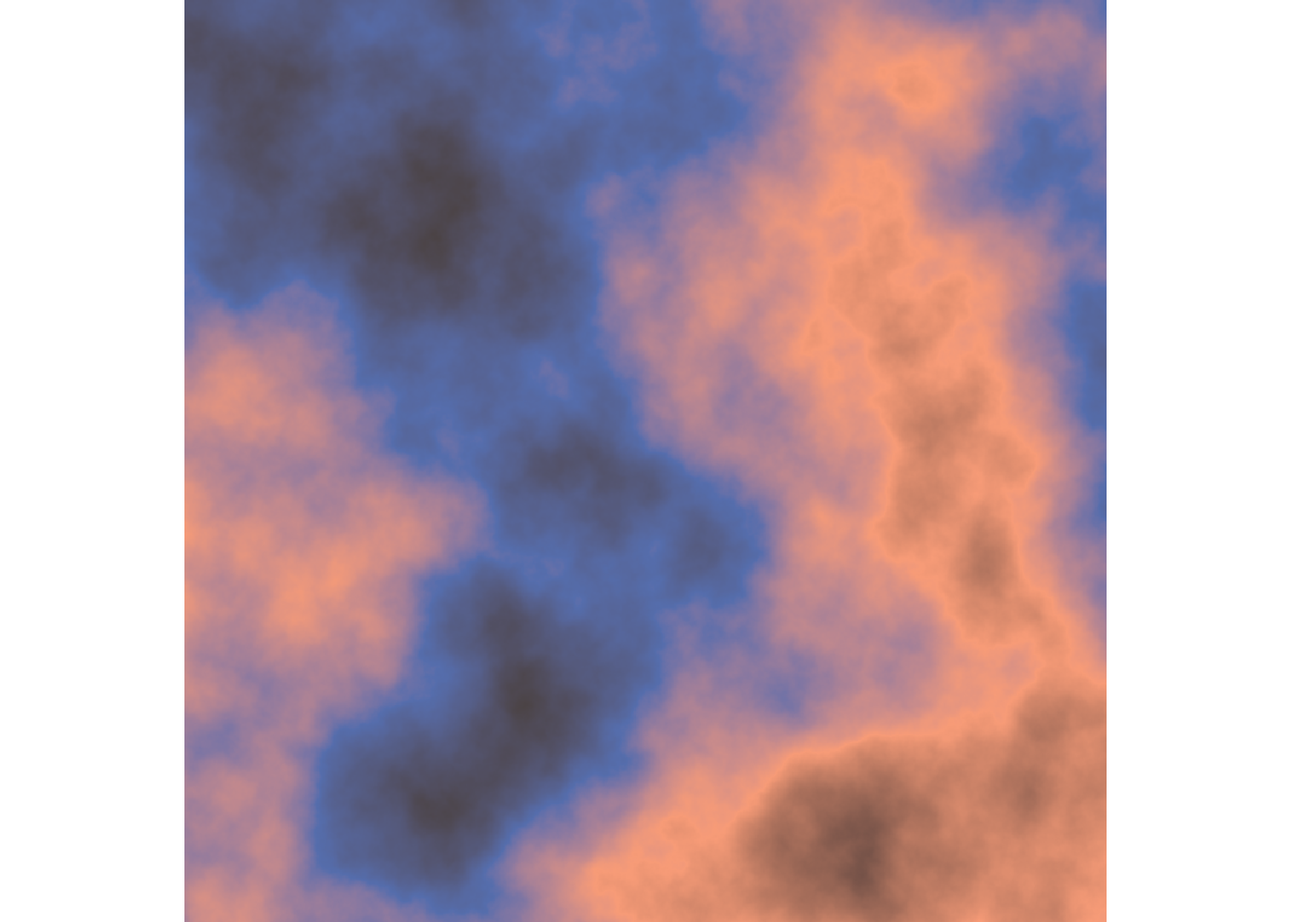
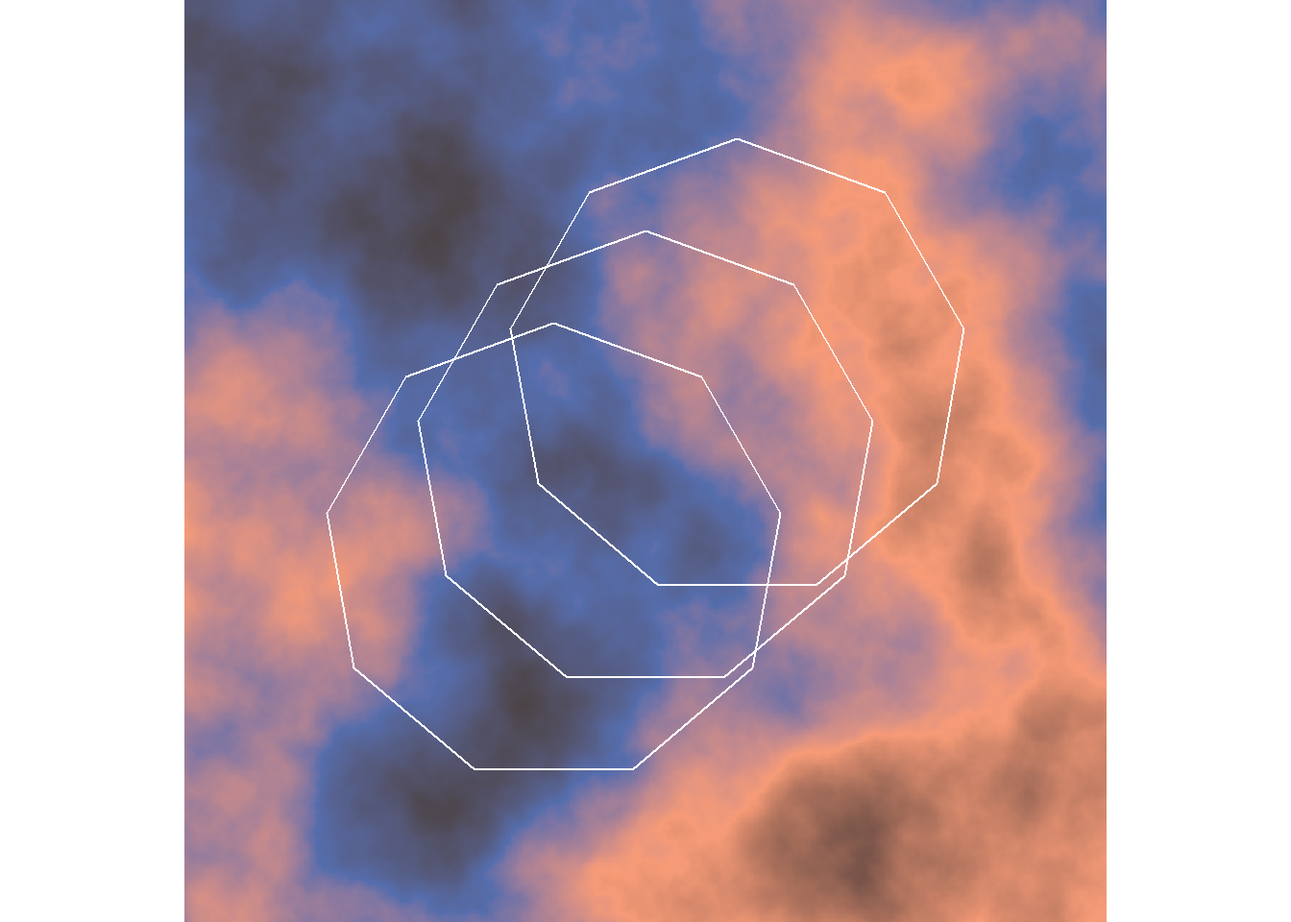
full gallery

diff --git a/Lab_9_Gallery.html b/Lab_9_Gallery.html
@@ -103,38 +103,42 @@ pre > code.sourceCode > span > a:first-child::before { text-decoration: underlin
 </header>
 
 
-<section id="art-piece-1" class="level2">
-<h2 class="anchored" data-anchor-id="art-piece-1">Art Piece 1</h2>
+<section id="gallery-entry-1" class="level1">
+<h1>Gallery Entry #1</h1>
 <div class="cell">
 <div class="sourceCode cell-code" id="cb1"><pre class="sourceCode r code-with-copy"><code class="sourceCode r"><span id="cb1-1"><a href="#cb1-1" aria-hidden="true" tabindex="-1"></a><span class="co">#using a phytoplankton monitoring time series from Morro Bay</span></span>
-<span id="cb1-2"><a href="#cb1-2" aria-hidden="true" tabindex="-1"></a>hab <span class="ot">&lt;-</span> <span class="fu">read.csv</span>(<span class="st">"data/MBF_upload.csv"</span>)</span>
-<span id="cb1-3"><a href="#cb1-3" aria-hidden="true" tabindex="-1"></a></span>
-<span id="cb1-4"><a href="#cb1-4" aria-hidden="true" tabindex="-1"></a><span class="co">#modifying and overlaying data on a single plot</span></span>
-<span id="cb1-5"><a href="#cb1-5" aria-hidden="true" tabindex="-1"></a>hab <span class="sc">|&gt;</span></span>
-<span id="cb1-6"><a href="#cb1-6" aria-hidden="true" tabindex="-1"></a>  <span class="fu">ggplot</span>() <span class="sc">+</span></span>
-<span id="cb1-7"><a href="#cb1-7" aria-hidden="true" tabindex="-1"></a>  <span class="fu">geom_point</span>(<span class="fu">aes</span>(Day.of.Year..<span class="dv">1</span>.<span class="fl">365.</span>, </span>
-<span id="cb1-8"><a href="#cb1-8" aria-hidden="true" tabindex="-1"></a>             <span class="fu">log10</span>(Total.Phytoplankton..cells.L.), </span>
-<span id="cb1-9"><a href="#cb1-9" aria-hidden="true" tabindex="-1"></a>             <span class="at">colour =</span> Day.of.Year..<span class="dv">1</span>.<span class="fl">365.</span>, </span>
-<span id="cb1-10"><a href="#cb1-10" aria-hidden="true" tabindex="-1"></a>             <span class="at">size =</span> Avg.Chloro..mg.m3.<span class="sc">/</span><span class="dv">2</span>),</span>
-<span id="cb1-11"><a href="#cb1-11" aria-hidden="true" tabindex="-1"></a>             <span class="at">show.legend =</span> <span class="cn">FALSE</span>) <span class="sc">+</span></span>
-<span id="cb1-12"><a href="#cb1-12" aria-hidden="true" tabindex="-1"></a>  <span class="fu">geom_point</span>(<span class="fu">aes</span>(<span class="fu">abs</span>(<span class="dv">366</span><span class="sc">-</span>Day.of.Year..<span class="dv">1</span>.<span class="fl">365.</span>), </span>
-<span id="cb1-13"><a href="#cb1-13" aria-hidden="true" tabindex="-1"></a>             <span class="fu">log</span>(Total.Phytoplankton..cells.L.), </span>
-<span id="cb1-14"><a href="#cb1-14" aria-hidden="true" tabindex="-1"></a>             <span class="at">colour =</span> Day.of.Year..<span class="dv">1</span>.<span class="fl">365.</span>, </span>
-<span id="cb1-15"><a href="#cb1-15" aria-hidden="true" tabindex="-1"></a>             <span class="at">size =</span> Avg.Chloro..mg.m3.),</span>
-<span id="cb1-16"><a href="#cb1-16" aria-hidden="true" tabindex="-1"></a>             <span class="at">show.legend =</span> <span class="cn">FALSE</span>) <span class="sc">+</span></span>
-<span id="cb1-17"><a href="#cb1-17" aria-hidden="true" tabindex="-1"></a>  <span class="fu">geom_bar</span>(<span class="fu">aes</span>(Day.of.Year..<span class="dv">1</span>.<span class="fl">365.</span>, </span>
-<span id="cb1-18"><a href="#cb1-18" aria-hidden="true" tabindex="-1"></a>              <span class="fu">log10</span>(Akashiwo.sanguinea..cells.L.), </span>
-<span id="cb1-19"><a href="#cb1-19" aria-hidden="true" tabindex="-1"></a>              <span class="at">colour  =</span> Temp..deg.C.<span class="sc">*</span><span class="dv">20</span>),</span>
-<span id="cb1-20"><a href="#cb1-20" aria-hidden="true" tabindex="-1"></a>           <span class="at">stat =</span> <span class="st">"identity"</span>, </span>
-<span id="cb1-21"><a href="#cb1-21" aria-hidden="true" tabindex="-1"></a>           <span class="at">show.legend =</span> <span class="cn">FALSE</span>) <span class="sc">+</span></span>
-<span id="cb1-22"><a href="#cb1-22" aria-hidden="true" tabindex="-1"></a>  <span class="fu">geom_bar</span>(<span class="fu">aes</span>(Day.of.Year..<span class="dv">1</span>.<span class="fl">365.</span>, </span>
-<span id="cb1-23"><a href="#cb1-23" aria-hidden="true" tabindex="-1"></a>              <span class="fu">log10</span>(Pseudo.nitzschia.seriata.group..cells.L.), </span>
-<span id="cb1-24"><a href="#cb1-24" aria-hidden="true" tabindex="-1"></a>              <span class="at">colour  =</span> Temp..deg.C.<span class="sc">*</span><span class="dv">10</span>),</span>
-<span id="cb1-25"><a href="#cb1-25" aria-hidden="true" tabindex="-1"></a>           <span class="at">stat =</span> <span class="st">"identity"</span>, </span>
-<span id="cb1-26"><a href="#cb1-26" aria-hidden="true" tabindex="-1"></a>           <span class="at">show.legend =</span> <span class="cn">FALSE</span>) <span class="sc">+</span></span>
-<span id="cb1-27"><a href="#cb1-27" aria-hidden="true" tabindex="-1"></a>  <span class="fu">coord_polar</span>() <span class="sc">+</span> </span>
-<span id="cb1-28"><a href="#cb1-28" aria-hidden="true" tabindex="-1"></a>  <span class="fu">theme_void</span>() <span class="sc">+</span></span>
-<span id="cb1-29"><a href="#cb1-29" aria-hidden="true" tabindex="-1"></a>  <span class="fu">scale_color_viridis_c</span>()</span></code><button title="Copy to Clipboard" class="code-copy-button"><i class="bi"></i></button></pre></div>
+<span id="cb1-2"><a href="#cb1-2" aria-hidden="true" tabindex="-1"></a></span>
+<span id="cb1-3"><a href="#cb1-3" aria-hidden="true" tabindex="-1"></a>hab <span class="ot">&lt;-</span> <span class="fu">read.csv</span>(<span class="st">"data/MBF_upload.csv"</span>)</span>
+<span id="cb1-4"><a href="#cb1-4" aria-hidden="true" tabindex="-1"></a></span>
+<span id="cb1-5"><a href="#cb1-5" aria-hidden="true" tabindex="-1"></a><span class="co">#modifying and overlaying data on a single plot</span></span>
+<span id="cb1-6"><a href="#cb1-6" aria-hidden="true" tabindex="-1"></a></span>
+<span id="cb1-7"><a href="#cb1-7" aria-hidden="true" tabindex="-1"></a>hab_spiral <span class="ot">&lt;-</span> hab <span class="sc">|&gt;</span></span>
+<span id="cb1-8"><a href="#cb1-8" aria-hidden="true" tabindex="-1"></a>  <span class="fu">ggplot</span>() <span class="sc">+</span></span>
+<span id="cb1-9"><a href="#cb1-9" aria-hidden="true" tabindex="-1"></a>  <span class="fu">geom_point</span>(<span class="fu">aes</span>(Day.of.Year..<span class="dv">1</span>.<span class="fl">365.</span>, </span>
+<span id="cb1-10"><a href="#cb1-10" aria-hidden="true" tabindex="-1"></a>             <span class="fu">log10</span>(Total.Phytoplankton..cells.L.), </span>
+<span id="cb1-11"><a href="#cb1-11" aria-hidden="true" tabindex="-1"></a>             <span class="at">colour =</span> Day.of.Year..<span class="dv">1</span>.<span class="fl">365.</span>, </span>
+<span id="cb1-12"><a href="#cb1-12" aria-hidden="true" tabindex="-1"></a>             <span class="at">size =</span> Avg.Chloro..mg.m3.<span class="sc">/</span><span class="dv">2</span>),</span>
+<span id="cb1-13"><a href="#cb1-13" aria-hidden="true" tabindex="-1"></a>             <span class="at">show.legend =</span> <span class="cn">FALSE</span>) <span class="sc">+</span></span>
+<span id="cb1-14"><a href="#cb1-14" aria-hidden="true" tabindex="-1"></a>  <span class="fu">geom_point</span>(<span class="fu">aes</span>(<span class="fu">abs</span>(<span class="dv">366</span><span class="sc">-</span>Day.of.Year..<span class="dv">1</span>.<span class="fl">365.</span>), </span>
+<span id="cb1-15"><a href="#cb1-15" aria-hidden="true" tabindex="-1"></a>             <span class="fu">log</span>(Total.Phytoplankton..cells.L.), </span>
+<span id="cb1-16"><a href="#cb1-16" aria-hidden="true" tabindex="-1"></a>             <span class="at">colour =</span> Day.of.Year..<span class="dv">1</span>.<span class="fl">365.</span>, </span>
+<span id="cb1-17"><a href="#cb1-17" aria-hidden="true" tabindex="-1"></a>             <span class="at">size =</span> Avg.Chloro..mg.m3.),</span>
+<span id="cb1-18"><a href="#cb1-18" aria-hidden="true" tabindex="-1"></a>             <span class="at">show.legend =</span> <span class="cn">FALSE</span>) <span class="sc">+</span></span>
+<span id="cb1-19"><a href="#cb1-19" aria-hidden="true" tabindex="-1"></a>  <span class="fu">geom_bar</span>(<span class="fu">aes</span>(Day.of.Year..<span class="dv">1</span>.<span class="fl">365.</span>, </span>
+<span id="cb1-20"><a href="#cb1-20" aria-hidden="true" tabindex="-1"></a>              <span class="fu">log10</span>(Akashiwo.sanguinea..cells.L.), </span>
+<span id="cb1-21"><a href="#cb1-21" aria-hidden="true" tabindex="-1"></a>              <span class="at">colour  =</span> Temp..deg.C.<span class="sc">*</span><span class="dv">20</span>),</span>
+<span id="cb1-22"><a href="#cb1-22" aria-hidden="true" tabindex="-1"></a>           <span class="at">stat =</span> <span class="st">"identity"</span>, </span>
+<span id="cb1-23"><a href="#cb1-23" aria-hidden="true" tabindex="-1"></a>           <span class="at">show.legend =</span> <span class="cn">FALSE</span>) <span class="sc">+</span></span>
+<span id="cb1-24"><a href="#cb1-24" aria-hidden="true" tabindex="-1"></a>  <span class="fu">geom_bar</span>(<span class="fu">aes</span>(Day.of.Year..<span class="dv">1</span>.<span class="fl">365.</span>, </span>
+<span id="cb1-25"><a href="#cb1-25" aria-hidden="true" tabindex="-1"></a>              <span class="fu">log10</span>(Pseudo.nitzschia.seriata.group..cells.L.), </span>
+<span id="cb1-26"><a href="#cb1-26" aria-hidden="true" tabindex="-1"></a>              <span class="at">colour  =</span> Temp..deg.C.<span class="sc">*</span><span class="dv">10</span>),</span>
+<span id="cb1-27"><a href="#cb1-27" aria-hidden="true" tabindex="-1"></a>           <span class="at">stat =</span> <span class="st">"identity"</span>, </span>
+<span id="cb1-28"><a href="#cb1-28" aria-hidden="true" tabindex="-1"></a>           <span class="at">show.legend =</span> <span class="cn">FALSE</span>) <span class="sc">+</span></span>
+<span id="cb1-29"><a href="#cb1-29" aria-hidden="true" tabindex="-1"></a>  <span class="fu">coord_polar</span>() <span class="sc">+</span> </span>
+<span id="cb1-30"><a href="#cb1-30" aria-hidden="true" tabindex="-1"></a>  <span class="fu">theme_void</span>() <span class="sc">+</span></span>
+<span id="cb1-31"><a href="#cb1-31" aria-hidden="true" tabindex="-1"></a>  <span class="fu">scale_color_viridis_c</span>()</span>
+<span id="cb1-32"><a href="#cb1-32" aria-hidden="true" tabindex="-1"></a></span>
+<span id="cb1-33"><a href="#cb1-33" aria-hidden="true" tabindex="-1"></a>hab_spiral</span></code><button title="Copy to Clipboard" class="code-copy-button"><i class="bi"></i></button></pre></div>
 <div class="cell-output-display">
 <div>
 <figure class="figure">
@@ -143,40 +147,85 @@ pre > code.sourceCode > span > a:first-child::before { text-decoration: underlin
 </div>
 </div>
 </div>
+<section id="title-galaxsea" class="level2">
+<h2 class="anchored" data-anchor-id="title-galaxsea">Title: GalaxSea</h2>
+<section id="dramatic-description" class="level3">
+<h3 class="anchored" data-anchor-id="dramatic-description">Dramatic Description</h3>
+<p>When viewed under a microscope, the phytoplankton that inhabit the ocean can appear as numerous as the stars in the sky. This piece uses a plankton monitoring time series as the underlying dataset, from which transformations, aesthetic manipulations, and layering result in a swirling assortment of points and rays akin to a solar system. This piece evokes the continuum between microscopic and macroscopic, the inherent link between the smallest and largest scales accessible to human observation.</p>
 </section>
-<section id="art-piece-2" class="level2">
-<h2 class="anchored" data-anchor-id="art-piece-2">Art Piece 2</h2>
+<section id="code-choices" class="level3">
+<h3 class="anchored" data-anchor-id="code-choices">Code Choices</h3>
+<p>Using <code>coord_polar()</code> changes the structure of the x-axis so all the data spirals around a central point. Multiple data transformations (such as log scaling) are used in the layered <code>geom_bar()</code> and <code>geom_point()</code> calls to space out the data so it has a characteristic cosmic feel, like asteroid belts encircling the sun.</p>
+</section>
+</section>
+</section>
+<section id="gallery-entry-2" class="level1">
+<h1>Gallery Entry #2</h1>
 <div class="cell">
 <div class="sourceCode cell-code" id="cb2"><pre class="sourceCode r code-with-copy"><code class="sourceCode r"><span id="cb2-1"><a href="#cb2-1" aria-hidden="true" tabindex="-1"></a><span class="co">#generate color palettes</span></span>
-<span id="cb2-2"><a href="#cb2-2" aria-hidden="true" tabindex="-1"></a>sample_canva <span class="ot">&lt;-</span> <span class="cf">function</span>(<span class="at">seed =</span> <span class="cn">NULL</span>) {</span>
-<span id="cb2-3"><a href="#cb2-3" aria-hidden="true" tabindex="-1"></a>  <span class="cf">if</span>(<span class="sc">!</span><span class="fu">is.null</span>(seed)) <span class="fu">set.seed</span>(seed)</span>
-<span id="cb2-4"><a href="#cb2-4" aria-hidden="true" tabindex="-1"></a>  <span class="fu">sample</span>(ggthemes<span class="sc">::</span>canva_palettes, <span class="dv">1</span>)[[<span class="dv">1</span>]]</span>
-<span id="cb2-5"><a href="#cb2-5" aria-hidden="true" tabindex="-1"></a>}</span>
-<span id="cb2-6"><a href="#cb2-6" aria-hidden="true" tabindex="-1"></a></span>
-<span id="cb2-7"><a href="#cb2-7" aria-hidden="true" tabindex="-1"></a><span class="co">#create a canvas</span></span>
-<span id="cb2-8"><a href="#cb2-8" aria-hidden="true" tabindex="-1"></a>x_coords <span class="ot">&lt;-</span> <span class="fu">seq</span>(<span class="at">from =</span> <span class="dv">0</span>, <span class="at">to =</span> <span class="dv">1</span>, <span class="at">length.out =</span> <span class="dv">800</span>)</span>
-<span id="cb2-9"><a href="#cb2-9" aria-hidden="true" tabindex="-1"></a>y_coords <span class="ot">&lt;-</span> <span class="fu">seq</span>(<span class="at">from =</span> <span class="dv">0</span>, <span class="at">to =</span> <span class="dv">1</span>, <span class="at">length.out =</span> <span class="dv">800</span>)</span>
-<span id="cb2-10"><a href="#cb2-10" aria-hidden="true" tabindex="-1"></a>canvas <span class="ot">&lt;-</span> <span class="fu">long_grid</span>(<span class="at">x =</span> x_coords, <span class="at">y =</span> y_coords) </span>
-<span id="cb2-11"><a href="#cb2-11" aria-hidden="true" tabindex="-1"></a></span>
-<span id="cb2-12"><a href="#cb2-12" aria-hidden="true" tabindex="-1"></a><span class="co">#add some generated "paint" to the canvas</span></span>
-<span id="cb2-13"><a href="#cb2-13" aria-hidden="true" tabindex="-1"></a>canvas <span class="ot">&lt;-</span> canvas <span class="sc">|&gt;</span></span>
-<span id="cb2-14"><a href="#cb2-14" aria-hidden="true" tabindex="-1"></a>  <span class="fu">mutate</span>(<span class="at">paint =</span> <span class="fu">fracture</span>(</span>
-<span id="cb2-15"><a href="#cb2-15" aria-hidden="true" tabindex="-1"></a>            <span class="at">noise =</span> gen_simplex,</span>
-<span id="cb2-16"><a href="#cb2-16" aria-hidden="true" tabindex="-1"></a>            <span class="at">x =</span> x,</span>
-<span id="cb2-17"><a href="#cb2-17" aria-hidden="true" tabindex="-1"></a>            <span class="at">y =</span> y,</span>
-<span id="cb2-18"><a href="#cb2-18" aria-hidden="true" tabindex="-1"></a>            <span class="at">octaves =</span> <span class="dv">20</span>,</span>
-<span id="cb2-19"><a href="#cb2-19" aria-hidden="true" tabindex="-1"></a>            <span class="at">fractal =</span> fbm,</span>
-<span id="cb2-20"><a href="#cb2-20" aria-hidden="true" tabindex="-1"></a>            <span class="at">seed =</span> <span class="dv">29</span>))</span>
-<span id="cb2-21"><a href="#cb2-21" aria-hidden="true" tabindex="-1"></a></span>
-<span id="cb2-22"><a href="#cb2-22" aria-hidden="true" tabindex="-1"></a><span class="co">#putting it all together with a generated color palette</span></span>
-<span id="cb2-23"><a href="#cb2-23" aria-hidden="true" tabindex="-1"></a>art <span class="ot">&lt;-</span> <span class="fu">ggplot</span>(canvas, <span class="fu">aes</span>(x, y, <span class="at">fill =</span> paint)) <span class="sc">+</span> </span>
-<span id="cb2-24"><a href="#cb2-24" aria-hidden="true" tabindex="-1"></a>  <span class="fu">geom_raster</span>(<span class="at">show.legend =</span> <span class="cn">FALSE</span>) <span class="sc">+</span></span>
-<span id="cb2-25"><a href="#cb2-25" aria-hidden="true" tabindex="-1"></a>  <span class="fu">theme_void</span>() <span class="sc">+</span></span>
-<span id="cb2-26"><a href="#cb2-26" aria-hidden="true" tabindex="-1"></a>  <span class="fu">coord_equal</span>() <span class="sc">+</span></span>
-<span id="cb2-27"><a href="#cb2-27" aria-hidden="true" tabindex="-1"></a>  <span class="fu">scale_x_continuous</span>(<span class="at">expand =</span> <span class="fu">c</span>(<span class="dv">0</span>, <span class="dv">0</span>)) <span class="sc">+</span></span>
-<span id="cb2-28"><a href="#cb2-28" aria-hidden="true" tabindex="-1"></a>  <span class="fu">scale_y_continuous</span>(<span class="at">expand =</span> <span class="fu">c</span>(<span class="dv">0</span>, <span class="dv">0</span>)) <span class="sc">+</span></span>
-<span id="cb2-29"><a href="#cb2-29" aria-hidden="true" tabindex="-1"></a>  <span class="fu">scale_fill_gradientn</span>(<span class="at">colours =</span> <span class="fu">sample_canva</span>(<span class="at">seed =</span> <span class="dv">42</span>))</span>
-<span id="cb2-30"><a href="#cb2-30" aria-hidden="true" tabindex="-1"></a>art</span></code><button title="Copy to Clipboard" class="code-copy-button"><i class="bi"></i></button></pre></div>
+<span id="cb2-2"><a href="#cb2-2" aria-hidden="true" tabindex="-1"></a></span>
+<span id="cb2-3"><a href="#cb2-3" aria-hidden="true" tabindex="-1"></a>sample_canva <span class="ot">&lt;-</span> <span class="cf">function</span>(<span class="at">seed =</span> <span class="cn">NULL</span>) {</span>
+<span id="cb2-4"><a href="#cb2-4" aria-hidden="true" tabindex="-1"></a>  <span class="cf">if</span>(<span class="sc">!</span><span class="fu">is.null</span>(seed)) <span class="fu">set.seed</span>(seed)</span>
+<span id="cb2-5"><a href="#cb2-5" aria-hidden="true" tabindex="-1"></a>  <span class="fu">sample</span>(ggthemes<span class="sc">::</span>canva_palettes, <span class="dv">1</span>)[[<span class="dv">1</span>]]</span>
+<span id="cb2-6"><a href="#cb2-6" aria-hidden="true" tabindex="-1"></a>}</span>
+<span id="cb2-7"><a href="#cb2-7" aria-hidden="true" tabindex="-1"></a></span>
+<span id="cb2-8"><a href="#cb2-8" aria-hidden="true" tabindex="-1"></a><span class="co">#create a canvas</span></span>
+<span id="cb2-9"><a href="#cb2-9" aria-hidden="true" tabindex="-1"></a></span>
+<span id="cb2-10"><a href="#cb2-10" aria-hidden="true" tabindex="-1"></a>x_coords <span class="ot">&lt;-</span> <span class="fu">seq</span>(<span class="at">from =</span> <span class="dv">0</span>, <span class="at">to =</span> <span class="dv">1</span>, <span class="at">length.out =</span> <span class="dv">800</span>)</span>
+<span id="cb2-11"><a href="#cb2-11" aria-hidden="true" tabindex="-1"></a>y_coords <span class="ot">&lt;-</span> <span class="fu">seq</span>(<span class="at">from =</span> <span class="dv">0</span>, <span class="at">to =</span> <span class="dv">1</span>, <span class="at">length.out =</span> <span class="dv">800</span>)</span>
+<span id="cb2-12"><a href="#cb2-12" aria-hidden="true" tabindex="-1"></a>canvas <span class="ot">&lt;-</span> <span class="fu">long_grid</span>(<span class="at">x =</span> x_coords, <span class="at">y =</span> y_coords) </span>
+<span id="cb2-13"><a href="#cb2-13" aria-hidden="true" tabindex="-1"></a></span>
+<span id="cb2-14"><a href="#cb2-14" aria-hidden="true" tabindex="-1"></a><span class="co">#add some generated "paint" to the canvas</span></span>
+<span id="cb2-15"><a href="#cb2-15" aria-hidden="true" tabindex="-1"></a></span>
+<span id="cb2-16"><a href="#cb2-16" aria-hidden="true" tabindex="-1"></a>canvas <span class="ot">&lt;-</span> canvas <span class="sc">|&gt;</span></span>
+<span id="cb2-17"><a href="#cb2-17" aria-hidden="true" tabindex="-1"></a>  <span class="fu">mutate</span>(<span class="at">paint =</span> <span class="fu">fracture</span>(</span>
+<span id="cb2-18"><a href="#cb2-18" aria-hidden="true" tabindex="-1"></a>            <span class="at">noise =</span> gen_simplex,</span>
+<span id="cb2-19"><a href="#cb2-19" aria-hidden="true" tabindex="-1"></a>            <span class="at">x =</span> x,</span>
+<span id="cb2-20"><a href="#cb2-20" aria-hidden="true" tabindex="-1"></a>            <span class="at">y =</span> y,</span>
+<span id="cb2-21"><a href="#cb2-21" aria-hidden="true" tabindex="-1"></a>            <span class="at">octaves =</span> <span class="dv">20</span>,</span>
+<span id="cb2-22"><a href="#cb2-22" aria-hidden="true" tabindex="-1"></a>            <span class="at">fractal =</span> fbm,</span>
+<span id="cb2-23"><a href="#cb2-23" aria-hidden="true" tabindex="-1"></a>            <span class="at">seed =</span> <span class="dv">29</span>))</span>
+<span id="cb2-24"><a href="#cb2-24" aria-hidden="true" tabindex="-1"></a></span>
+<span id="cb2-25"><a href="#cb2-25" aria-hidden="true" tabindex="-1"></a><span class="co">#defining the shape of a nonagon to add some structure/geometry to the fractal chaos</span></span>
+<span id="cb2-26"><a href="#cb2-26" aria-hidden="true" tabindex="-1"></a></span>
+<span id="cb2-27"><a href="#cb2-27" aria-hidden="true" tabindex="-1"></a>theta <span class="ot">&lt;-</span> (<span class="dv">0</span><span class="sc">:</span><span class="dv">9</span>) <span class="sc">*</span> pi <span class="sc">/</span> <span class="fl">4.5</span></span>
+<span id="cb2-28"><a href="#cb2-28" aria-hidden="true" tabindex="-1"></a>nonagon <span class="ot">&lt;-</span> <span class="fu">tibble</span>(</span>
+<span id="cb2-29"><a href="#cb2-29" aria-hidden="true" tabindex="-1"></a>  <span class="at">x =</span> <span class="fu">sin</span>(theta),</span>
+<span id="cb2-30"><a href="#cb2-30" aria-hidden="true" tabindex="-1"></a>  <span class="at">y =</span> <span class="fu">cos</span>(theta)</span>
+<span id="cb2-31"><a href="#cb2-31" aria-hidden="true" tabindex="-1"></a>)</span>
+<span id="cb2-32"><a href="#cb2-32" aria-hidden="true" tabindex="-1"></a></span>
+<span id="cb2-33"><a href="#cb2-33" aria-hidden="true" tabindex="-1"></a>nonagon_scale <span class="ot">&lt;-</span> nonagon <span class="sc">|&gt;</span></span>
+<span id="cb2-34"><a href="#cb2-34" aria-hidden="true" tabindex="-1"></a>  <span class="fu">mutate</span>(<span class="at">x_scale =</span> x<span class="sc">/</span><span class="dv">4</span><span class="fl">+0.5</span>, </span>
+<span id="cb2-35"><a href="#cb2-35" aria-hidden="true" tabindex="-1"></a>         <span class="at">y_scale =</span> y<span class="sc">/</span><span class="dv">4</span><span class="fl">+0.5</span>)</span>
+<span id="cb2-36"><a href="#cb2-36" aria-hidden="true" tabindex="-1"></a></span>
+<span id="cb2-37"><a href="#cb2-37" aria-hidden="true" tabindex="-1"></a><span class="co">#putting them all together</span></span>
+<span id="cb2-38"><a href="#cb2-38" aria-hidden="true" tabindex="-1"></a></span>
+<span id="cb2-39"><a href="#cb2-39" aria-hidden="true" tabindex="-1"></a>fractal_plot <span class="ot">&lt;-</span> <span class="fu">ggplot</span>() <span class="sc">+</span></span>
+<span id="cb2-40"><a href="#cb2-40" aria-hidden="true" tabindex="-1"></a>  <span class="fu">geom_raster</span>(<span class="at">data =</span> canvas, </span>
+<span id="cb2-41"><a href="#cb2-41" aria-hidden="true" tabindex="-1"></a>              <span class="fu">aes</span>(x, y, <span class="at">fill =</span> paint), </span>
+<span id="cb2-42"><a href="#cb2-42" aria-hidden="true" tabindex="-1"></a>              <span class="at">show.legend =</span> <span class="cn">FALSE</span>) <span class="sc">+</span></span>
+<span id="cb2-43"><a href="#cb2-43" aria-hidden="true" tabindex="-1"></a>  <span class="fu">scale_x_continuous</span>(<span class="at">expand =</span> <span class="fu">c</span>(<span class="dv">0</span>, <span class="dv">0</span>)) <span class="sc">+</span></span>
+<span id="cb2-44"><a href="#cb2-44" aria-hidden="true" tabindex="-1"></a>  <span class="fu">scale_y_continuous</span>(<span class="at">expand =</span> <span class="fu">c</span>(<span class="dv">0</span>, <span class="dv">0</span>)) <span class="sc">+</span></span>
+<span id="cb2-45"><a href="#cb2-45" aria-hidden="true" tabindex="-1"></a>  <span class="fu">scale_fill_gradientn</span>(<span class="at">colours =</span> <span class="fu">sample_canva</span>(<span class="at">seed =</span> <span class="dv">42</span>)) <span class="sc">+</span></span>
+<span id="cb2-46"><a href="#cb2-46" aria-hidden="true" tabindex="-1"></a>  <span class="fu">geom_polygon</span>(<span class="at">data =</span> nonagon_scale,</span>
+<span id="cb2-47"><a href="#cb2-47" aria-hidden="true" tabindex="-1"></a>               <span class="fu">aes</span>(x_scale, y_scale), </span>
+<span id="cb2-48"><a href="#cb2-48" aria-hidden="true" tabindex="-1"></a>               <span class="at">colour =</span> <span class="st">"white"</span>, </span>
+<span id="cb2-49"><a href="#cb2-49" aria-hidden="true" tabindex="-1"></a>               <span class="at">fill =</span> <span class="cn">NA</span>, </span>
+<span id="cb2-50"><a href="#cb2-50" aria-hidden="true" tabindex="-1"></a>               <span class="at">show.legend =</span> <span class="cn">FALSE</span>) <span class="sc">+</span></span>
+<span id="cb2-51"><a href="#cb2-51" aria-hidden="true" tabindex="-1"></a>  <span class="fu">geom_polygon</span>(<span class="at">data =</span> nonagon_scale,</span>
+<span id="cb2-52"><a href="#cb2-52" aria-hidden="true" tabindex="-1"></a>               <span class="fu">aes</span>(x_scale<span class="fl">-0.1</span>, y_scale<span class="fl">-0.1</span>), </span>
+<span id="cb2-53"><a href="#cb2-53" aria-hidden="true" tabindex="-1"></a>               <span class="at">colour =</span> <span class="st">"white"</span>, </span>
+<span id="cb2-54"><a href="#cb2-54" aria-hidden="true" tabindex="-1"></a>               <span class="at">fill =</span> <span class="cn">NA</span>, </span>
+<span id="cb2-55"><a href="#cb2-55" aria-hidden="true" tabindex="-1"></a>               <span class="at">show.legend =</span> <span class="cn">FALSE</span>) <span class="sc">+</span></span>
+<span id="cb2-56"><a href="#cb2-56" aria-hidden="true" tabindex="-1"></a>  <span class="fu">geom_polygon</span>(<span class="at">data =</span> nonagon_scale,</span>
+<span id="cb2-57"><a href="#cb2-57" aria-hidden="true" tabindex="-1"></a>               <span class="fu">aes</span>(x_scale<span class="fl">+0.1</span>, y_scale<span class="fl">+0.1</span>), </span>
+<span id="cb2-58"><a href="#cb2-58" aria-hidden="true" tabindex="-1"></a>               <span class="at">colour =</span> <span class="st">"white"</span>, </span>
+<span id="cb2-59"><a href="#cb2-59" aria-hidden="true" tabindex="-1"></a>               <span class="at">fill =</span> <span class="cn">NA</span>, </span>
+<span id="cb2-60"><a href="#cb2-60" aria-hidden="true" tabindex="-1"></a>               <span class="at">show.legend =</span> <span class="cn">FALSE</span>) <span class="sc">+</span></span>
+<span id="cb2-61"><a href="#cb2-61" aria-hidden="true" tabindex="-1"></a>  <span class="fu">coord_equal</span>() <span class="sc">+</span> </span>
+<span id="cb2-62"><a href="#cb2-62" aria-hidden="true" tabindex="-1"></a>  <span class="fu">theme_void</span>()</span>
+<span id="cb2-63"><a href="#cb2-63" aria-hidden="true" tabindex="-1"></a></span>
+<span id="cb2-64"><a href="#cb2-64" aria-hidden="true" tabindex="-1"></a>fractal_plot</span></code><button title="Copy to Clipboard" class="code-copy-button"><i class="bi"></i></button></pre></div>
 <div class="cell-output-display">
 <div>
 <figure class="figure">
@@ -184,73 +233,18 @@ pre > code.sourceCode > span > a:first-child::before { text-decoration: underlin
 </figure>
 </div>
 </div>
-<div class="sourceCode cell-code" id="cb3"><pre class="sourceCode r code-with-copy"><code class="sourceCode r"><span id="cb3-1"><a href="#cb3-1" aria-hidden="true" tabindex="-1"></a><span class="co">#defining the shape of a nonagon</span></span>
-<span id="cb3-2"><a href="#cb3-2" aria-hidden="true" tabindex="-1"></a>theta <span class="ot">&lt;-</span> (<span class="dv">0</span><span class="sc">:</span><span class="dv">9</span>) <span class="sc">*</span> pi <span class="sc">/</span> <span class="fl">4.5</span></span>
-<span id="cb3-3"><a href="#cb3-3" aria-hidden="true" tabindex="-1"></a>nonagon <span class="ot">&lt;-</span> <span class="fu">tibble</span>(</span>
-<span id="cb3-4"><a href="#cb3-4" aria-hidden="true" tabindex="-1"></a>  <span class="at">x =</span> <span class="fu">sin</span>(theta),</span>
-<span id="cb3-5"><a href="#cb3-5" aria-hidden="true" tabindex="-1"></a>  <span class="at">y =</span> <span class="fu">cos</span>(theta)</span>
-<span id="cb3-6"><a href="#cb3-6" aria-hidden="true" tabindex="-1"></a>)</span>
-<span id="cb3-7"><a href="#cb3-7" aria-hidden="true" tabindex="-1"></a>nonagon_scale <span class="ot">&lt;-</span> nonagon <span class="sc">%&gt;%</span></span>
-<span id="cb3-8"><a href="#cb3-8" aria-hidden="true" tabindex="-1"></a>  <span class="fu">mutate</span>(<span class="at">x_scale =</span> x<span class="sc">/</span><span class="dv">4</span>, </span>
-<span id="cb3-9"><a href="#cb3-9" aria-hidden="true" tabindex="-1"></a>         <span class="at">y_scale =</span> y<span class="sc">/</span><span class="dv">4</span>)</span>
-<span id="cb3-10"><a href="#cb3-10" aria-hidden="true" tabindex="-1"></a></span>
-<span id="cb3-11"><a href="#cb3-11" aria-hidden="true" tabindex="-1"></a><span class="co">#plotting nonagon</span></span>
-<span id="cb3-12"><a href="#cb3-12" aria-hidden="true" tabindex="-1"></a>pic <span class="ot">&lt;-</span> <span class="fu">ggplot</span>(nonagon) <span class="sc">+</span></span>
-<span id="cb3-13"><a href="#cb3-13" aria-hidden="true" tabindex="-1"></a>  <span class="fu">geom_polygon</span>(<span class="fu">aes</span>(x, y), </span>
-<span id="cb3-14"><a href="#cb3-14" aria-hidden="true" tabindex="-1"></a>               <span class="at">colour =</span> <span class="st">"black"</span>, </span>
-<span id="cb3-15"><a href="#cb3-15" aria-hidden="true" tabindex="-1"></a>               <span class="at">fill =</span> <span class="cn">NA</span>, </span>
-<span id="cb3-16"><a href="#cb3-16" aria-hidden="true" tabindex="-1"></a>               <span class="at">show.legend =</span> <span class="cn">FALSE</span>) <span class="sc">+</span></span>
-<span id="cb3-17"><a href="#cb3-17" aria-hidden="true" tabindex="-1"></a>  <span class="fu">geom_polygon</span>(<span class="fu">aes</span>(x<span class="fl">-0.5</span>, y<span class="fl">-0.5</span>), </span>
-<span id="cb3-18"><a href="#cb3-18" aria-hidden="true" tabindex="-1"></a>               <span class="at">colour =</span> <span class="st">"black"</span>, </span>
-<span id="cb3-19"><a href="#cb3-19" aria-hidden="true" tabindex="-1"></a>               <span class="at">fill =</span> <span class="cn">NA</span>, </span>
-<span id="cb3-20"><a href="#cb3-20" aria-hidden="true" tabindex="-1"></a>               <span class="at">show.legend =</span> <span class="cn">FALSE</span>) <span class="sc">+</span></span>
-<span id="cb3-21"><a href="#cb3-21" aria-hidden="true" tabindex="-1"></a>    <span class="fu">geom_polygon</span>(<span class="fu">aes</span>(x<span class="fl">+0.5</span>, y<span class="fl">+0.5</span>), </span>
-<span id="cb3-22"><a href="#cb3-22" aria-hidden="true" tabindex="-1"></a>               <span class="at">colour =</span> <span class="st">"black"</span>, </span>
-<span id="cb3-23"><a href="#cb3-23" aria-hidden="true" tabindex="-1"></a>               <span class="at">fill =</span> <span class="cn">NA</span>, </span>
-<span id="cb3-24"><a href="#cb3-24" aria-hidden="true" tabindex="-1"></a>               <span class="at">show.legend =</span> <span class="cn">FALSE</span>) <span class="sc">+</span></span>
-<span id="cb3-25"><a href="#cb3-25" aria-hidden="true" tabindex="-1"></a>  <span class="fu">coord_equal</span>() <span class="sc">+</span> </span>
-<span id="cb3-26"><a href="#cb3-26" aria-hidden="true" tabindex="-1"></a>  <span class="fu">theme_void</span>()</span>
-<span id="cb3-27"><a href="#cb3-27" aria-hidden="true" tabindex="-1"></a>pic</span></code><button title="Copy to Clipboard" class="code-copy-button"><i class="bi"></i></button></pre></div>
-<div class="cell-output-display">
-<div>
-<figure class="figure">
-<p><img src="Lab_9_Gallery_files/figure-html/building-art-two-2.png" class="img-fluid figure-img" width="672"></p>
-</figure>
 </div>
-</div>
-<div class="sourceCode cell-code" id="cb4"><pre class="sourceCode r code-with-copy"><code class="sourceCode r"><span id="cb4-1"><a href="#cb4-1" aria-hidden="true" tabindex="-1"></a><span class="co">#putting them together</span></span>
-<span id="cb4-2"><a href="#cb4-2" aria-hidden="true" tabindex="-1"></a><span class="fu">ggplot</span>() <span class="sc">+</span></span>
-<span id="cb4-3"><a href="#cb4-3" aria-hidden="true" tabindex="-1"></a>  <span class="fu">geom_raster</span>(<span class="at">data =</span> canvas, </span>
-<span id="cb4-4"><a href="#cb4-4" aria-hidden="true" tabindex="-1"></a>              <span class="fu">aes</span>(x, y, <span class="at">fill =</span> paint), </span>
-<span id="cb4-5"><a href="#cb4-5" aria-hidden="true" tabindex="-1"></a>              <span class="at">show.legend =</span> <span class="cn">FALSE</span>) <span class="sc">+</span></span>
-<span id="cb4-6"><a href="#cb4-6" aria-hidden="true" tabindex="-1"></a>  <span class="fu">scale_x_continuous</span>(<span class="at">expand =</span> <span class="fu">c</span>(<span class="dv">0</span>, <span class="dv">0</span>)) <span class="sc">+</span></span>
-<span id="cb4-7"><a href="#cb4-7" aria-hidden="true" tabindex="-1"></a>  <span class="fu">scale_y_continuous</span>(<span class="at">expand =</span> <span class="fu">c</span>(<span class="dv">0</span>, <span class="dv">0</span>)) <span class="sc">+</span></span>
-<span id="cb4-8"><a href="#cb4-8" aria-hidden="true" tabindex="-1"></a>  <span class="fu">scale_fill_gradientn</span>(<span class="at">colours =</span> <span class="fu">sample_canva</span>(<span class="at">seed =</span> <span class="dv">42</span>)) <span class="sc">+</span></span>
-<span id="cb4-9"><a href="#cb4-9" aria-hidden="true" tabindex="-1"></a>  <span class="fu">geom_polygon</span>(<span class="at">data =</span> nonagon_scale,</span>
-<span id="cb4-10"><a href="#cb4-10" aria-hidden="true" tabindex="-1"></a>               <span class="fu">aes</span>(x_scale, y_scale), </span>
-<span id="cb4-11"><a href="#cb4-11" aria-hidden="true" tabindex="-1"></a>               <span class="at">colour =</span> <span class="st">"white"</span>, </span>
-<span id="cb4-12"><a href="#cb4-12" aria-hidden="true" tabindex="-1"></a>               <span class="at">fill =</span> <span class="cn">NA</span>, </span>
-<span id="cb4-13"><a href="#cb4-13" aria-hidden="true" tabindex="-1"></a>               <span class="at">show.legend =</span> <span class="cn">FALSE</span>) <span class="sc">+</span></span>
-<span id="cb4-14"><a href="#cb4-14" aria-hidden="true" tabindex="-1"></a>  <span class="fu">geom_polygon</span>(<span class="at">data =</span> nonagon_scale,</span>
-<span id="cb4-15"><a href="#cb4-15" aria-hidden="true" tabindex="-1"></a>               <span class="fu">aes</span>(x_scale<span class="fl">-0.05</span>, y_scale<span class="fl">-0.05</span>), </span>
-<span id="cb4-16"><a href="#cb4-16" aria-hidden="true" tabindex="-1"></a>               <span class="at">colour =</span> <span class="st">"black"</span>, </span>
-<span id="cb4-17"><a href="#cb4-17" aria-hidden="true" tabindex="-1"></a>               <span class="at">fill =</span> <span class="cn">NA</span>, </span>
-<span id="cb4-18"><a href="#cb4-18" aria-hidden="true" tabindex="-1"></a>               <span class="at">show.legend =</span> <span class="cn">FALSE</span>) <span class="sc">+</span></span>
-<span id="cb4-19"><a href="#cb4-19" aria-hidden="true" tabindex="-1"></a>  <span class="fu">geom_polygon</span>(<span class="at">data =</span> nonagon_scale,</span>
-<span id="cb4-20"><a href="#cb4-20" aria-hidden="true" tabindex="-1"></a>               <span class="fu">aes</span>(x_scale<span class="fl">+0.05</span>, y_scale<span class="fl">+0.05</span>), </span>
-<span id="cb4-21"><a href="#cb4-21" aria-hidden="true" tabindex="-1"></a>               <span class="at">colour =</span> <span class="st">"black"</span>, </span>
-<span id="cb4-22"><a href="#cb4-22" aria-hidden="true" tabindex="-1"></a>               <span class="at">fill =</span> <span class="cn">NA</span>, </span>
-<span id="cb4-23"><a href="#cb4-23" aria-hidden="true" tabindex="-1"></a>               <span class="at">show.legend =</span> <span class="cn">FALSE</span>) <span class="sc">+</span></span>
-<span id="cb4-24"><a href="#cb4-24" aria-hidden="true" tabindex="-1"></a>  <span class="fu">coord_equal</span>() <span class="sc">+</span> </span>
-<span id="cb4-25"><a href="#cb4-25" aria-hidden="true" tabindex="-1"></a>  <span class="fu">theme_void</span>()</span></code><button title="Copy to Clipboard" class="code-copy-button"><i class="bi"></i></button></pre></div>
-<div class="cell-output-display">
-<div>
-<figure class="figure">
-<p><img src="Lab_9_Gallery_files/figure-html/building-art-two-3.png" class="img-fluid figure-img" width="672"></p>
-</figure>
-</div>
-</div>
-</div>
+<section id="title-nebulagon" class="level2">
+<h2 class="anchored" data-anchor-id="title-nebulagon">Title: Nebulagon</h2>
+<section id="dramatic-description-1" class="level3">
+<h3 class="anchored" data-anchor-id="dramatic-description-1">Dramatic Description</h3>
+<p>A nebula at the outskirts of a distant galaxy. Within the gas and cosmic dust, a set of rings stand out, their seemingly-purposeful angularity denoting intelligent design amidst chaos. Perhaps leftover structures from an ancient, insterstellar race? Do you dare approach?</p>
+</section>
+<section id="code-choices-1" class="level3">
+<h3 class="anchored" data-anchor-id="code-choices-1">Code Choices</h3>
+<p>The <code>sample_canva()</code> function generates a random palette that is replicable if we set a “seed”. The <code>fracture()</code> function used when “painting the canvas” takes the noise generated using <code>gen_simplex()</code> and repeatedly applies it at different frequencies. By setting “octaves” to 20, the generator and fractal functions iterate over the algorithm 20 times. The nonagon structure is first built as a tibble, then rescaled using some simple transformations so it appears at the center of the final plot. The final image brings all elements together by layering polygons on top of a raster base.</p>
+</section>
+</section>
 </section>
 
 </main>
